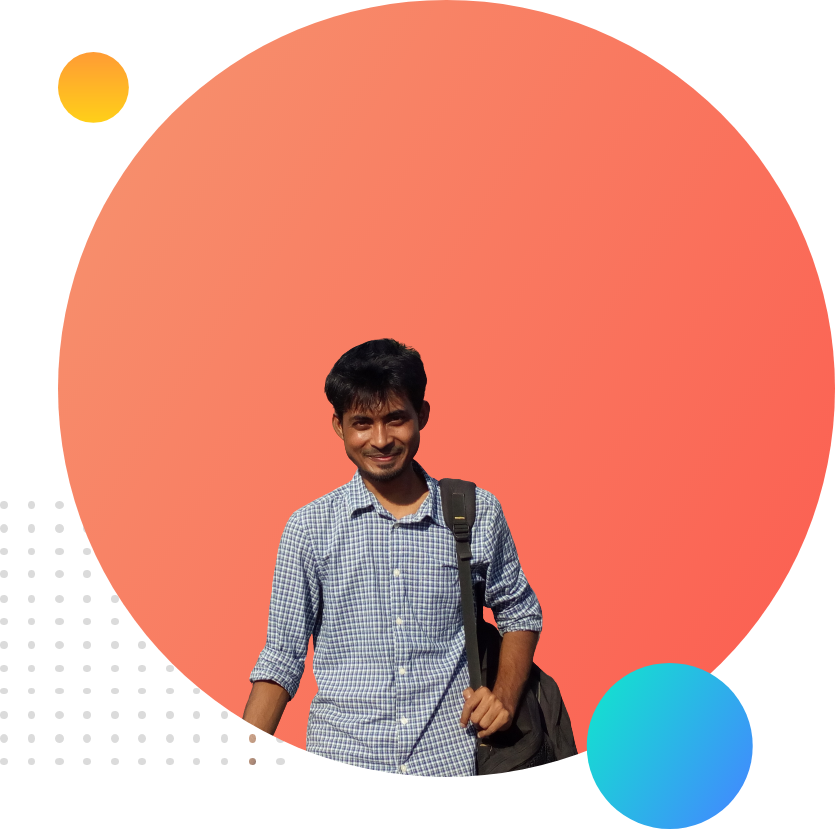
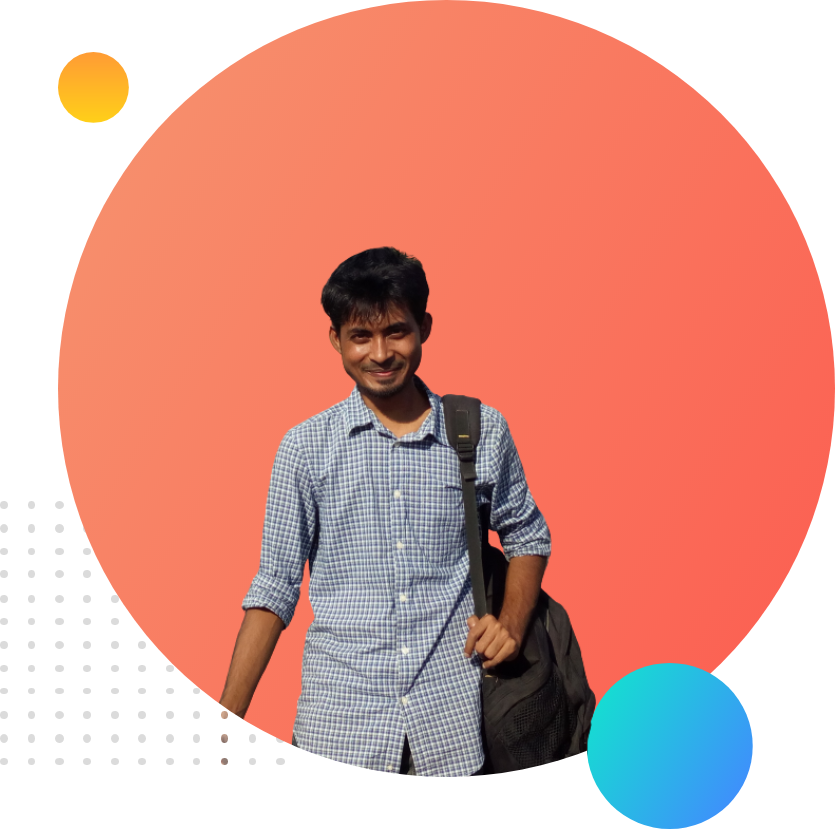
CSS added

Changed region(s): [[0.2491, 0.2714, 0.7162, 0.9349]]

diff --git a/index.html b/index.html
@@ -5,27 +5,57 @@
     <meta http-equiv="X-UA-Compatible" content="IE=edge" />
     <meta name="viewport" content="width=device-width, initial-scale=1.0" />
     <title>Maksud Portfolio</title>
+    <link rel="preconnect" href="https://fonts.googleapis.com" />
+    <link rel="preconnect" href="https://fonts.gstatic.com" crossorigin />
+    <link
+      href="https://fonts.googleapis.com/css2?family=Poppins:wght@400;600;700&display=swap"
+      rel="stylesheet"
+    />
+    <link rel="stylesheet" href="style.css" />
   </head>
   <body>
     <section class="hero-container">
-      <h1>Welcome To</h1>
-      <h1><span>Maksudur Rahman</span> World!!</h1>
-      <h3>Structural Engineer Outside But Programmer Inside 😎</h3>
-      <p>
-        Hi!! I'm Maksudr Rahman aka Sparrow Hawk. Currently working as a Steel
-        Detailer in a Private Company. I completed my B.Sc. in Civil and
-        Environmental Engineering from Shahjalal University of Science and
-        Technology. Though I grown up as a Civil Engineer. Deep inside the WORLD
-        OF WEB and PROGRAMING always attracts me towards them. I can code but do
-        not know how to make it alive.
-      </p>
-      <img src="/images/my-bg.png" alt="" />
+      <div class="hero-description">
+        <h1 class="welcome-text">Welcome To</h1>
+        <h1><span class="colorize-text">SparroW HawK</span> World!!</h1>
+        <h3>Structural Engineer Outside But Programmer Inside 😎</h3>
+        <p>
+          Hi!! I'm Maksudr Rahman aka Sparrow Hawk. Currently working as a Steel
+          Detailer in a Private Company. I completed my B.Sc. in Civil and
+          Environmental Engineering from Shahjalal University of Science and
+          Technology. Though I grown up as a Civil Engineer. Deep inside the
+          WORLD OF WEB and PROGRAMING always attracts me towards them. I can
+          code but do not know how to make it alive.
+        </p>
+        <a
+          target="_blank"
+          class="button"
+          href="https://www.linkedin.com/in/maksudur-rahman-a9733a161/"
+          >Hire Me</a
+        >
+      </div>
+      <img class="hero-img" src="/images/my-bg.png" alt="" />
     </section>
-    <section class="hero-container">
-      <img src="/images/my-bg2.png" alt="" />
-      <h1>Dreaming Big 🤩</h1>
-      <h3>Journey to the Center of the World of WEB</h3>
-      <p></p>
+    <section class="dream-area">
+      <img class="hero-img" src="/images/my-bg2.png" alt="" />
+      <div class="hero-description">
+        <h1 class="welcome-text">Dreaming Big 🤩</h1>
+        <h3>Journey to the Center of the World of WEB</h3>
+        <p>
+          Hi!! I'm Maksudr Rahman aka Sparrow Hawk. Currently working as a Steel
+          Detailer in a Private Company. I completed my B.Sc. in Civil and
+          Environmental Engineering from Shahjalal University of Science and
+          Technology. Though I grown up as a Civil Engineer. Deep inside the
+          WORLD OF WEB and PROGRAMING always attracts me towards them. I can
+          code but do not know how to make it alive.
+        </p>
+        <a
+          target="_blank"
+          class="button"
+          href="https://www.linkedin.com/in/maksudur-rahman-a9733a161/"
+          >Download Resume</a
+        >
+      </div>
     </section>
     <section class="experiences">
       <div class="card">

diff --git a/style.css b/style.css
@@ -1,0 +1,61 @@
+* {
+  margin: 0;
+  padding: 0;
+  box-sizing: border-box;
+}
+body {
+  font-family: "Poppins", sans-serif;
+}
+.hero-container {
+  display: flex;
+  height: 500px;
+  align-items: center;
+  justify-content: space-around;
+  background-image: url(images/top-banner.png);
+  background-repeat: no-repeat;
+  padding-top: 4%;
+  margin-bottom: 100px;
+}
+.hero-description {
+  width: 40%;
+}
+.hero-img {
+  width: 30%;
+}
+h1 {
+  font-size: 42px;
+  margin-bottom: 30px;
+  font-weight: 600;
+}
+
+.colorize-text {
+  color: #2bb6e7;
+}
+h3 {
+  font-weight: 600;
+  margin: 30px 0 20px;
+}
+p {
+  color: #777;
+}
+.button {
+  display: inline-block;
+  text-decoration: none;
+  color: white;
+  font-weight: 600;
+  cursor: pointer;
+  margin-top: 10px;
+  padding: 10px 30px;
+  background-image: linear-gradient(45deg, orangered, orange);
+  border-radius: 8px;
+}
+.dream-area {
+  display: flex;
+  height: 500px;
+  align-items: center;
+  justify-content: space-around;
+  background-image: url(images/top-banner.png);
+  background-repeat: no-repeat;
+  padding-top: 4%;
+  margin-bottom: 100px;
+}
